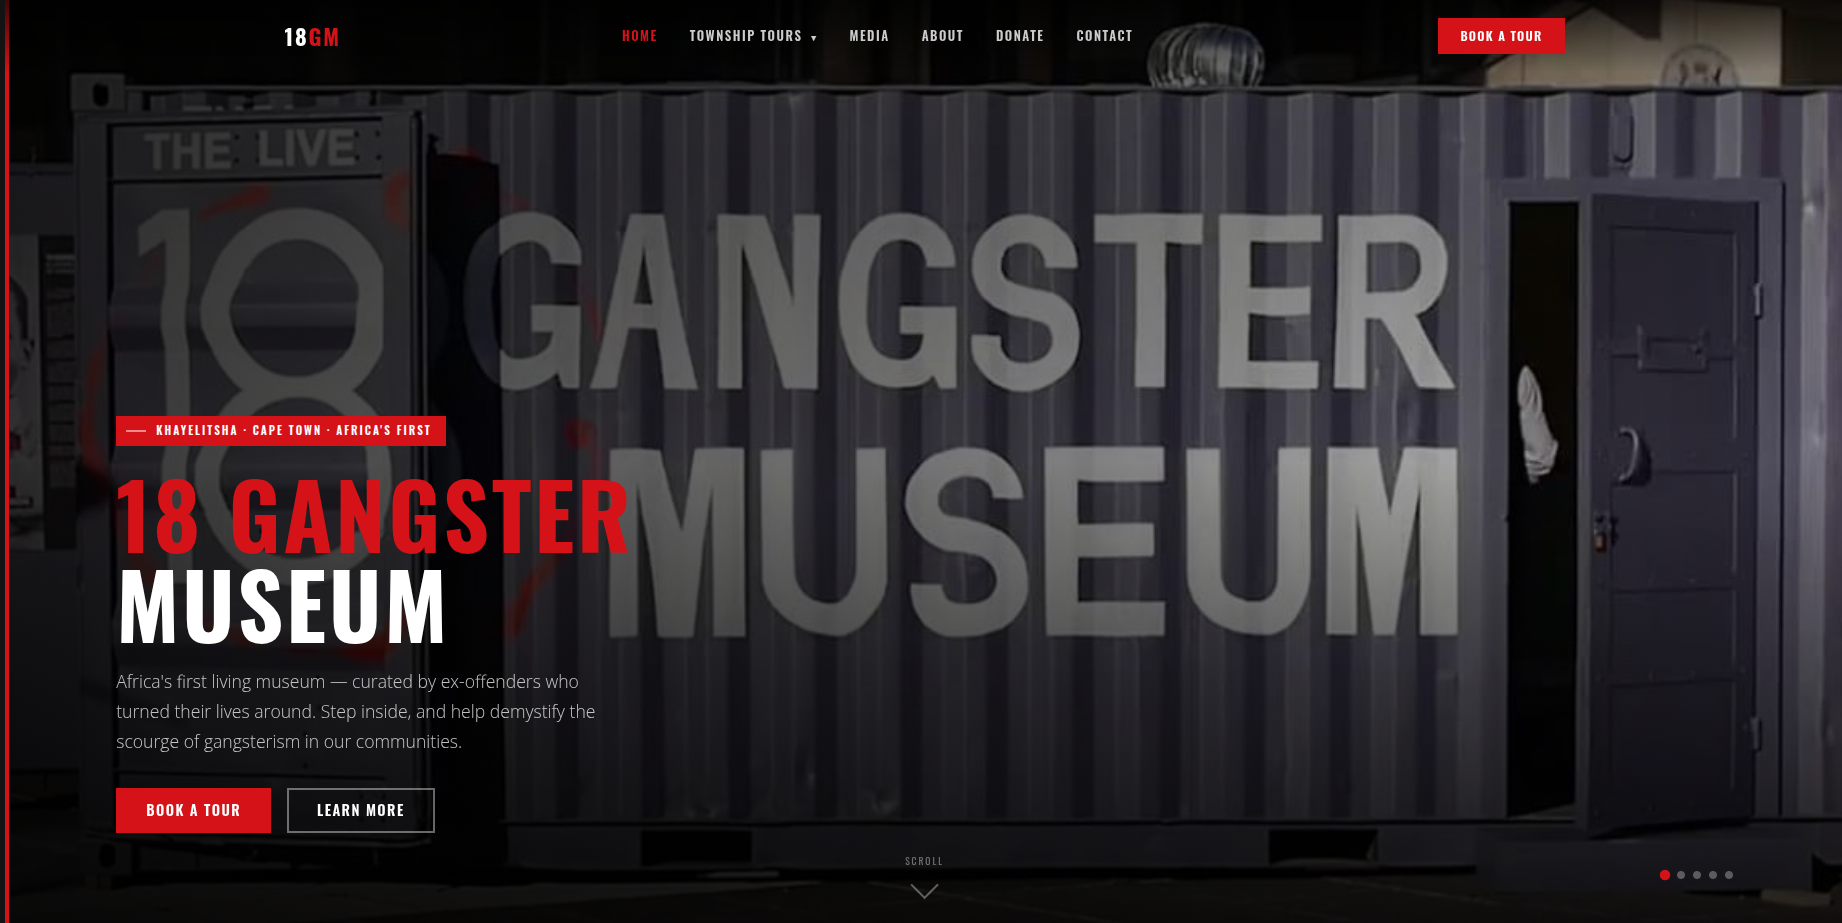
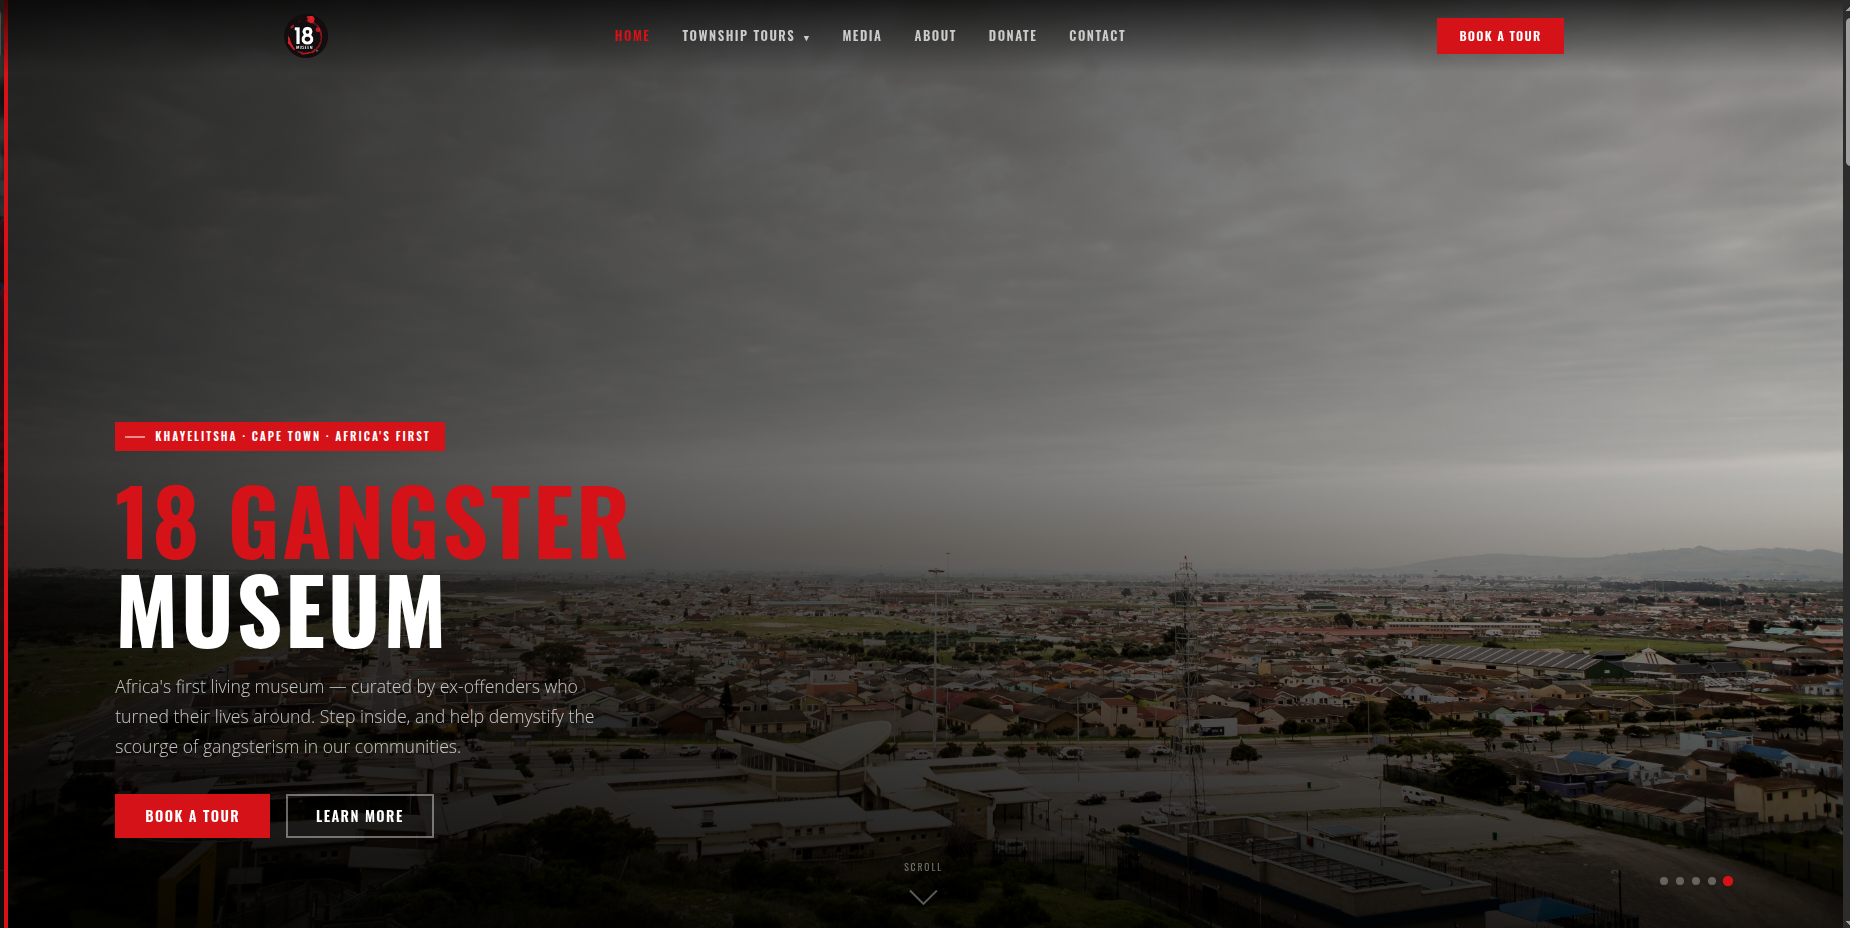
feat: update project showcase with new Mintry-Fabric and SignalDesk imagery and descriptions

diff --git a/src/App.jsx b/src/App.jsx
@@ -775,18 +775,18 @@ function App() {
             >
               <div className="overflow-hidden h-64">
                 <img 
-                  src="/mandondo.png" 
-                  alt="Mandondo Project" 
+                  src="/mintry.png" 
+                  alt="Mintry-Fabric" 
                   className="w-full h-full object-cover transition-transform duration-500 group-hover:scale-110"
                   loading="lazy"
                 />
               </div>
               <div className="p-6">
-                <h3 className="text-xl font-semibold mb-2">Mandondo Consulting</h3>
-                <p className="text-muted-foreground mb-4">Business Compliance & Advisory.</p>
+                <h3 className="text-xl font-semibold mb-2">Mintry-Fabric</h3>
+                <p className="text-muted-foreground mb-4">Mintry Fabric is a high-performance, real-time AI metering and policy enforcement layer.</p>
                 <div className="flex flex-wrap gap-2">
-                  <span className="px-3 py-1 bg-muted rounded-full text-sm">Company Registrations</span>
-                  <span className="px-3 py-1 bg-muted rounded-full text-sm">SARS Compliance</span>
+                  <span className="px-3 py-1 bg-muted rounded-full text-sm">AI Metering</span>
+                  <span className="px-3 py-1 bg-muted rounded-full text-sm">Policy Enforcement</span>
                 </div>
               </div>
             </motion.div>
@@ -801,18 +801,18 @@ function App() {
             >
               <div className="overflow-hidden h-64">
                 <img 
-                  src="/njozela.png" 
-                  alt="Njozela Project" 
+                  src="/signaldesk.png" 
+                  alt="SignalDesk Africa" 
                   className="w-full h-full object-cover transition-transform duration-500 group-hover:scale-110"
                   loading="lazy"
                 />
               </div>
               <div className="p-6">
-                <h3 className="text-xl font-semibold mb-2">Njozela Attorneys</h3>
-                <p className="text-muted-foreground mb-4">Providing Legal Services in Khayelitsha Since 2002.</p>
+                <h3 className="text-xl font-semibold mb-2">SignalDesk Africa</h3>
+                <p className="text-muted-foreground mb-4">SignalDesk Africa is a premium media intelligence and creator monetisation platform.</p>
                 <div className="flex flex-wrap gap-2">
-                  <span className="px-3 py-1 bg-muted rounded-full text-sm">Legal Services</span>
-                  <span className="px-3 py-1 bg-muted rounded-full text-sm">Justice</span>
+                  <span className="px-3 py-1 bg-muted rounded-full text-sm">Media Intelligence</span>
+                  <span className="px-3 py-1 bg-muted rounded-full text-sm">Creator Monetisation</span>
                 </div>
               </div>
             </motion.div>
